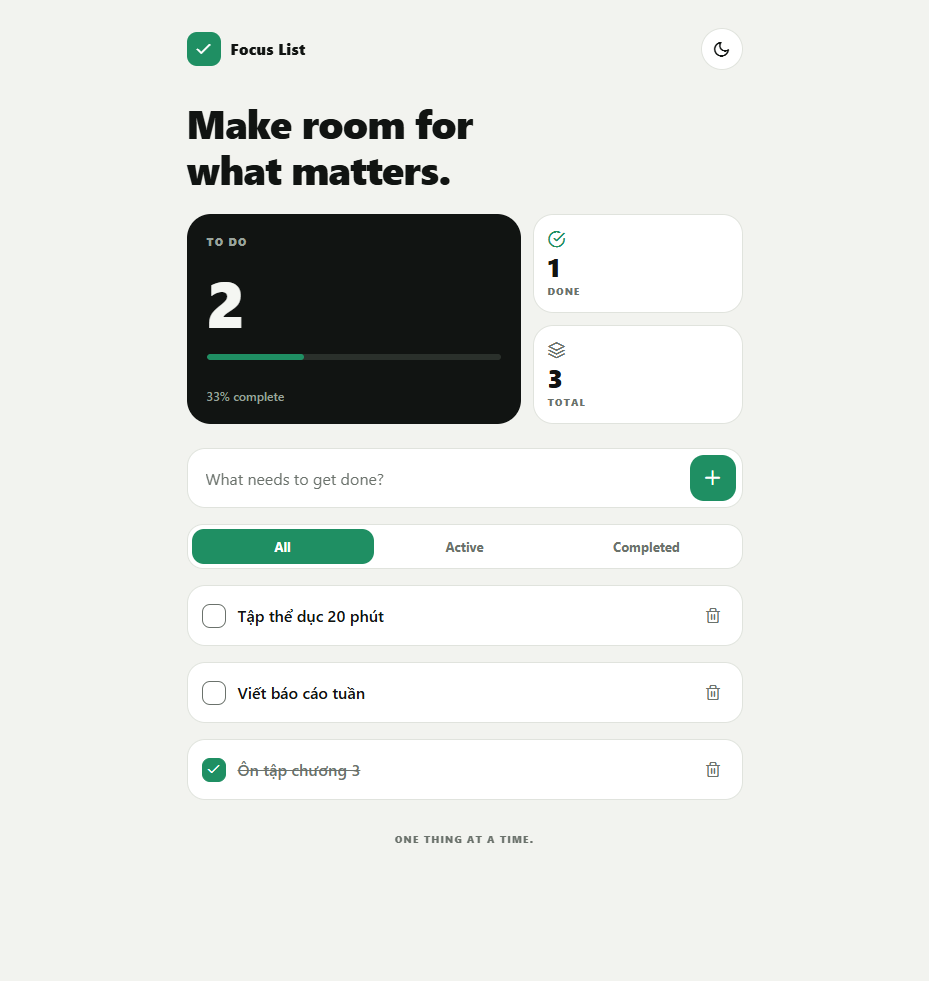
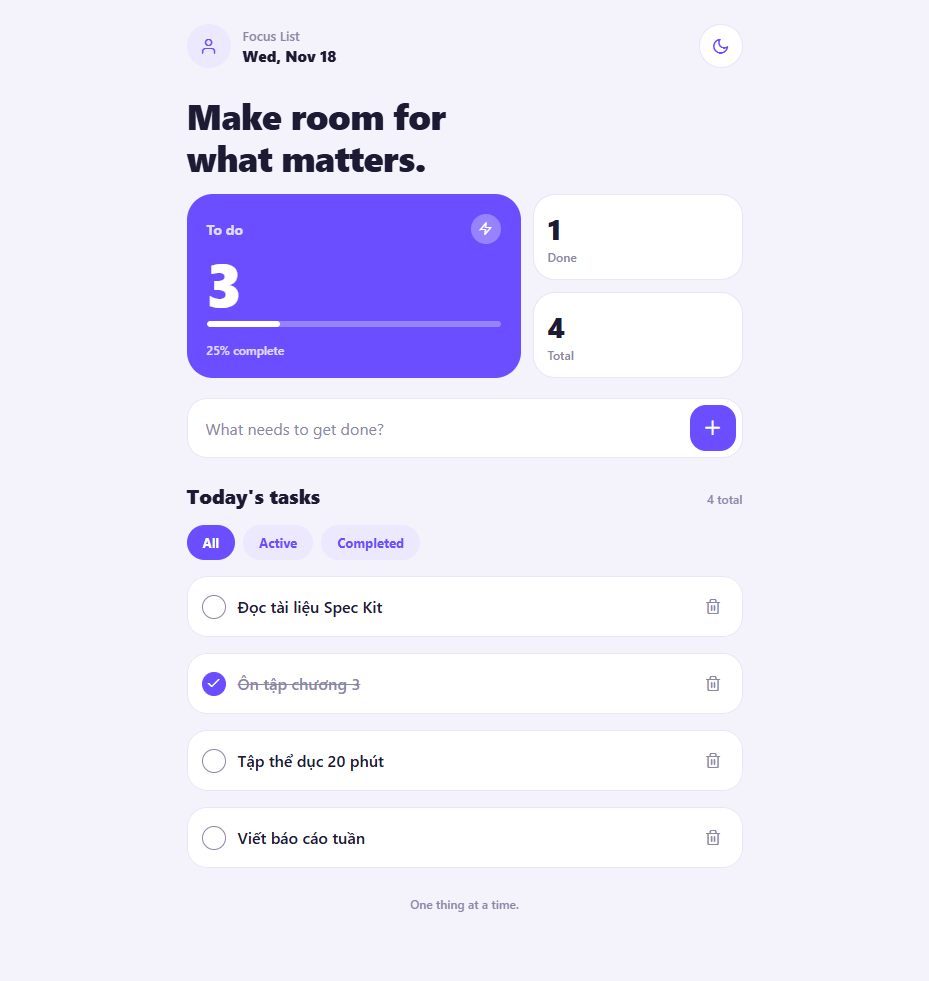
Add swipe gestures and Figma-inspired light UI
Tasks can be swiped right to complete or left to delete. Refresh screenshots.

diff --git a/App.js b/App.js
@@ -1,5 +1,5 @@
 import React, { useEffect, useRef, useState } from 'react';
-import { ActivityIndicator, KeyboardAvoidingView, Platform, Pressable, SafeAreaView, ScrollView, StyleSheet, Text, TextInput, View } from 'react-native';
+import { ActivityIndicator, Animated, KeyboardAvoidingView, PanResponder, Platform, Pressable, SafeAreaView, ScrollView, StyleSheet, Text, TextInput, View } from 'react-native';
 import { StatusBar } from 'expo-status-bar';
 import AsyncStorage from '@react-native-async-storage/async-storage';
 import { Feather } from '@expo/vector-icons';
@@ -10,8 +10,8 @@ const THEME_KEY = '@focus-list/theme-v1';
 const FILTERS = ['all', 'active', 'completed'];
 
 const PALETTE = {
-  dark: { bg: '#0b0d0c', card: '#161a17', border: '#262c27', text: '#f4f6f2', muted: '#8d958f', accent: '#7ee8b8', accentText: '#0b0d0c', hero: '#1d231e', heroTrack: '#2e3830', heroText: '#f4f6f2', heroMuted: '#9aa59e', danger: '#ff9a8a' },
-  light: { bg: '#f2f3ef', card: '#ffffff', border: '#e0e3dd', text: '#111412', muted: '#6b726c', accent: '#1f8f63', accentText: '#ffffff', hero: '#111412', heroTrack: '#2a302b', heroText: '#f4f6f2', heroMuted: '#9aa39c', danger: '#b3261e' },
+  light: { bg: '#f4f2fb', card: '#ffffff', border: '#e8e5f5', text: '#1d1a33', muted: '#8a86a6', accent: '#6b4eff', accentText: '#ffffff', chip: '#ece9ff', hero: '#6b4eff', heroTrack: 'rgba(255,255,255,0.3)', heroText: '#ffffff', heroMuted: '#e4dcff', danger: '#c62828' },
+  dark: { bg: '#14131f', card: '#1f1d2e', border: '#2d2a42', text: '#f3f2fb', muted: '#9a97b3', accent: '#8b72ff', accentText: '#ffffff', chip: '#2b2850', hero: '#2b2658', heroTrack: '#413c7d', heroText: '#ffffff', heroMuted: '#c9c3ff', danger: '#ff9a8a' },
 };
 
 export default function App() {
@@ -69,13 +69,14 @@ export default function App() {
     });
   }, [tasks, loading, storageError]);
 
-  // Dark is the default look for the presentation; the saved choice overrides it.
-  const isDark = (themePreference ?? 'dark') === 'dark';
+  // Light matches the reference design by default; a saved choice overrides it.
+  const isDark = (themePreference ?? 'light') === 'dark';
   const t = isDark ? PALETTE.dark : PALETTE.light;
   const activeCount = tasks.filter((task) => !task.completed).length;
   const doneCount = tasks.length - activeCount;
   const progress = tasks.length === 0 ? 0 : Math.round((doneCount / tasks.length) * 100);
   const visibleTasks = filterTasks(tasks, filter);
+  const todayLabel = new Date().toLocaleDateString('en-US', { weekday: 'short', month: 'short', day: 'numeric' });
 
   function toggleTheme() {
     const nextTheme = isDark ? 'light' : 'dark';
@@ -100,10 +101,13 @@ export default function App() {
       <KeyboardAvoidingView style={styles.flex} behavior={Platform.OS === 'ios' ? 'padding' : undefined}>
         <ScrollView contentContainerStyle={styles.page} keyboardShouldPersistTaps="handled">
           <View style={styles.topline}>
-            <View style={[styles.brandIcon, { backgroundColor: t.accent }]}><Feather name="check" size={18} color={t.accentText} /></View>
-            <Text style={[styles.brand, { color: t.text }]}>Focus List</Text>
+            <View style={[styles.avatar, { backgroundColor: t.chip }]}><Feather name="user" size={18} color={t.accent} /></View>
+            <View style={styles.greeting}>
+              <Text style={[styles.hello, { color: t.muted }]}>Focus List</Text>
+              <Text style={[styles.today, { color: t.text }]}>{todayLabel}</Text>
+            </View>
             <Pressable accessibilityRole="switch" accessibilityLabel="Dark mode" accessibilityState={{ checked: isDark, disabled: !themeReady }} aria-checked={isDark} onPress={toggleTheme} disabled={!themeReady} style={[styles.themeButton, { backgroundColor: t.card, borderColor: t.border }]}>
-              <Feather name={isDark ? 'sun' : 'moon'} size={18} color={t.text} />
+              <Feather name={isDark ? 'sun' : 'moon'} size={18} color={t.accent} />
             </Pressable>
           </View>
 
@@ -111,23 +115,24 @@ export default function App() {
 
           <View style={styles.bento}>
             <View style={[styles.heroCard, { backgroundColor: t.hero }]}>
-              <Text style={[styles.heroLabel, { color: t.heroMuted }]}>TO DO</Text>
+              <View style={styles.heroTop}>
+                <Text style={[styles.heroLabel, { color: t.heroMuted }]}>To do</Text>
+                <View style={[styles.heroBadge, { backgroundColor: t.heroTrack }]}><Feather name="zap" size={14} color={t.heroText} /></View>
+              </View>
               <Text style={[styles.heroNumber, { color: t.heroText }]}>{activeCount}</Text>
               <View style={[styles.track, { backgroundColor: t.heroTrack }]}>
-                <View style={[styles.fill, { width: `${progress}%`, backgroundColor: t.accent }]} />
+                <View style={[styles.fill, { width: `${progress}%`, backgroundColor: t.heroText }]} />
               </View>
               <Text style={[styles.heroCaption, { color: t.heroMuted }]}>{progress}% complete</Text>
             </View>
             <View style={styles.sideColumn}>
               <View style={[styles.smallCard, { backgroundColor: t.card, borderColor: t.border }]}>
-                <Feather name="check-circle" size={18} color={t.accent} />
                 <Text style={[styles.smallNumber, { color: t.text }]}>{doneCount}</Text>
-                <Text style={[styles.smallLabel, { color: t.muted }]}>DONE</Text>
+                <Text style={[styles.smallLabel, { color: t.muted }]}>Done</Text>
               </View>
               <View style={[styles.smallCard, { backgroundColor: t.card, borderColor: t.border }]}>
-                <Feather name="layers" size={18} color={t.muted} />
                 <Text style={[styles.smallNumber, { color: t.text }]}>{tasks.length}</Text>
-                <Text style={[styles.smallLabel, { color: t.muted }]}>TOTAL</Text>
+                <Text style={[styles.smallLabel, { color: t.muted }]}>Total</Text>
               </View>
             </View>
           </View>
@@ -137,12 +142,16 @@ export default function App() {
             <Pressable accessibilityRole="button" accessibilityLabel="Add task" onPress={handleAdd} style={[styles.addButton, { backgroundColor: t.accent }]}><Feather name="plus" size={22} color={t.accentText} /></Pressable>
           </View>
 
-          <View style={[styles.segments, { backgroundColor: t.card, borderColor: t.border }]}>
+          <View style={styles.sectionHeading}>
+            <Text style={[styles.sectionTitle, { color: t.text }]}>Today's tasks</Text>
+            <Text style={[styles.sectionCount, { color: t.muted }]}>{tasks.length} total</Text>
+          </View>
+          <View style={styles.filters}>
             {FILTERS.map((item) => {
               const selected = filter === item;
               return (
-                <Pressable key={item} accessibilityRole="button" accessibilityState={{ selected }} onPress={() => setFilter(item)} style={[styles.segment, selected && { backgroundColor: t.accent }]}>
-                  <Text style={[styles.segmentText, { color: selected ? t.accentText : t.muted }]}>{item[0].toUpperCase() + item.slice(1)}</Text>
+                <Pressable key={item} accessibilityRole="button" accessibilityState={{ selected }} onPress={() => setFilter(item)} style={[styles.filter, { backgroundColor: selected ? t.accent : t.chip }]}>
+                  <Text style={[styles.filterText, { color: selected ? t.accentText : t.accent }]}>{item[0].toUpperCase() + item.slice(1)}</Text>
                 </Pressable>
               );
             })}
@@ -153,64 +162,125 @@ export default function App() {
 
           {loading ? <ActivityIndicator color={t.accent} style={styles.empty} /> : visibleTasks.length === 0 ? (
             <View style={[styles.emptyCard, { backgroundColor: t.card, borderColor: t.border }]}>
-              <Feather name="coffee" size={26} color={t.accent} />
+              <View style={[styles.emptyIcon, { backgroundColor: t.chip }]}><Feather name="coffee" size={22} color={t.accent} /></View>
               <Text style={[styles.emptyTitle, { color: t.text }]}>{tasks.length === 0 ? 'A fresh start.' : 'Nothing here right now.'}</Text>
               <Text style={[styles.emptyText, { color: t.muted }]}>{tasks.length === 0 ? 'Add a task and take it one step at a time.' : 'Try another filter to see your tasks.'}</Text>
             </View>
           ) : visibleTasks.map((task) => (
-            <View key={task.id} style={[styles.taskCard, { backgroundColor: t.card, borderColor: t.border }]}>
-              <Pressable accessibilityRole="checkbox" accessibilityState={{ checked: task.completed }} accessibilityLabel={`${task.completed ? 'Mark active' : 'Complete'}: ${task.title}`} onPress={() => setTasks((current) => toggleTask(current, task.id))} style={[styles.checkbox, { borderColor: task.completed ? t.accent : t.muted, backgroundColor: task.completed ? t.accent : 'transparent' }]}>
-                {task.completed && <Feather name="check" size={15} color={t.accentText} />}
-              </Pressable>
-              <Text style={[styles.taskTitle, { color: task.completed ? t.muted : t.text }, task.completed && styles.taskCompleted]}>{task.title}</Text>
-              <Pressable accessibilityRole="button" accessibilityLabel={`Delete: ${task.title}`} onPress={() => setTasks((current) => deleteTask(current, task.id))} hitSlop={8} style={styles.deleteButton}>
-                <Feather name="trash-2" size={17} color={t.muted} />
-              </Pressable>
-            </View>
+            <SwipeableTaskRow
+              key={task.id}
+              task={task}
+              t={t}
+              onToggle={() => setTasks((current) => toggleTask(current, task.id))}
+              onDelete={() => setTasks((current) => deleteTask(current, task.id))}
+            />
           ))}
 
-          <Text style={[styles.footer, { color: t.muted }]}>ONE THING AT A TIME.</Text>
+          <Text style={[styles.footer, { color: t.muted }]}>One thing at a time.</Text>
         </ScrollView>
       </KeyboardAvoidingView>
     </SafeAreaView>
   );
 }
 
+const SWIPE_THRESHOLD = 90;
+
+function SwipeableTaskRow({ task, t, onToggle, onDelete }) {
+  const translateX = useRef(new Animated.Value(0)).current;
+  const handlers = useRef({ onToggle, onDelete });
+  handlers.current = { onToggle, onDelete };
+  const useNativeDriver = Platform.OS !== 'web';
+
+  const panResponder = useRef(PanResponder.create({
+    onStartShouldSetPanResponder: () => true,
+    onMoveShouldSetPanResponder: (_, g) => Math.abs(g.dx) > 10 && Math.abs(g.dx) > Math.abs(g.dy) * 2,
+    onPanResponderMove: (_, g) => translateX.setValue(g.dx),
+    onPanResponderRelease: (_, g) => {
+      if (g.dx <= -SWIPE_THRESHOLD) {
+        Animated.timing(translateX, { toValue: -400, duration: 160, useNativeDriver }).start(() => handlers.current.onDelete());
+        return;
+      }
+      if (g.dx >= SWIPE_THRESHOLD) handlers.current.onToggle();
+      Animated.spring(translateX, { toValue: 0, useNativeDriver }).start();
+    },
+    onPanResponderTerminationRequest: () => false,
+    onPanResponderTerminate: () => Animated.spring(translateX, { toValue: 0, useNativeDriver }).start(),
+  })).current;
+
+  const completeOpacity = translateX.interpolate({ inputRange: [0, 40], outputRange: [0, 1], extrapolate: 'clamp' });
+  const deleteOpacity = translateX.interpolate({ inputRange: [-40, 0], outputRange: [1, 0], extrapolate: 'clamp' });
+
+  return (
+    <View style={styles.swipeWrap}>
+      <Animated.View style={[styles.swipeLayer, styles.swipeComplete, { backgroundColor: t.accent, opacity: completeOpacity }]}>
+        <Feather name="check" size={18} color={t.accentText} />
+        <Text style={[styles.swipeText, { color: t.accentText }]}>{task.completed ? 'Mark active' : 'Complete'}</Text>
+      </Animated.View>
+      <Animated.View style={[styles.swipeLayer, styles.swipeDelete, { backgroundColor: t.danger, opacity: deleteOpacity }]}>
+        <Text style={[styles.swipeText, { color: t.accentText }]}>Delete</Text>
+        <Feather name="trash-2" size={18} color={t.accentText} />
+      </Animated.View>
+      <Animated.View {...panResponder.panHandlers} style={[styles.taskCard, { backgroundColor: t.card, borderColor: t.border, transform: [{ translateX }] }]}>
+        <Pressable accessibilityRole="checkbox" accessibilityState={{ checked: task.completed }} accessibilityLabel={`${task.completed ? 'Mark active' : 'Complete'}: ${task.title}`} onPress={onToggle} style={[styles.checkbox, { borderColor: task.completed ? t.accent : t.muted, backgroundColor: task.completed ? t.accent : 'transparent' }]}>
+          {task.completed && <Feather name="check" size={15} color={t.accentText} />}
+        </Pressable>
+        <Text style={[styles.taskTitle, { color: task.completed ? t.muted : t.text }, task.completed && styles.taskCompleted]}>{task.title}</Text>
+        <Pressable accessibilityRole="button" accessibilityLabel={`Delete: ${task.title}`} onPress={onDelete} hitSlop={8} style={styles.deleteButton}>
+          <Feather name="trash-2" size={17} color={t.muted} />
+        </Pressable>
+      </Animated.View>
+    </View>
+  );
+}
+
 const styles = StyleSheet.create({
   safeArea: { flex: 1 },
   flex: { flex: 1 },
-  page: { width: '100%', maxWidth: 600, alignSelf: 'center', paddingHorizontal: 22, paddingTop: 28, paddingBottom: 48, gap: 16 },
-  topline: { flexDirection: 'row', alignItems: 'center', gap: 10 },
-  brandIcon: { width: 34, height: 34, borderRadius: 10, alignItems: 'center', justifyContent: 'center' },
-  brand: { fontSize: 15, fontWeight: '800', letterSpacing: 0.3 },
-  themeButton: { marginLeft: 'auto', width: 42, height: 42, borderRadius: 21, borderWidth: 1, alignItems: 'center', justifyContent: 'center' },
-  title: { fontSize: 40, fontWeight: '900', lineHeight: 46, letterSpacing: -0.8, marginTop: 14, marginBottom: 6 },
+  page: { width: '100%', maxWidth: 600, alignSelf: 'center', paddingHorizontal: 22, paddingTop: 24, paddingBottom: 48, gap: 16 },
+  topline: { flexDirection: 'row', alignItems: 'center', gap: 12 },
+  avatar: { width: 44, height: 44, borderRadius: 22, alignItems: 'center', justifyContent: 'center' },
+  greeting: { flex: 1 },
+  hello: { fontSize: 13, fontWeight: '600' },
+  today: { fontSize: 15, fontWeight: '800', marginTop: 2 },
+  themeButton: { width: 44, height: 44, borderRadius: 22, borderWidth: 1, alignItems: 'center', justifyContent: 'center' },
+  title: { fontSize: 36, fontWeight: '900', lineHeight: 42, letterSpacing: -0.6, marginTop: 10 },
   bento: { flexDirection: 'row', gap: 12 },
-  heroCard: { flex: 1.4, borderRadius: 24, padding: 20, justifyContent: 'space-between', minHeight: 176 },
-  heroLabel: { fontSize: 11, fontWeight: '800', letterSpacing: 1.2 },
-  heroNumber: { fontSize: 64, fontWeight: '900', lineHeight: 70, letterSpacing: -2 },
+  heroCard: { flex: 1.4, borderRadius: 26, padding: 20, justifyContent: 'space-between', minHeight: 184 },
+  heroTop: { flexDirection: 'row', alignItems: 'center', justifyContent: 'space-between' },
+  heroLabel: { fontSize: 14, fontWeight: '700' },
+  heroBadge: { width: 30, height: 30, borderRadius: 15, alignItems: 'center', justifyContent: 'center' },
+  heroNumber: { fontSize: 60, fontWeight: '900', lineHeight: 66, letterSpacing: -2 },
   track: { height: 6, borderRadius: 3, overflow: 'hidden' },
   fill: { height: 6, borderRadius: 3 },
   heroCaption: { fontSize: 12, fontWeight: '600', marginTop: 10 },
   sideColumn: { flex: 1, gap: 12 },
-  smallCard: { flex: 1, borderRadius: 20, borderWidth: 1, padding: 14, justifyContent: 'space-between' },
-  smallNumber: { fontSize: 26, fontWeight: '900' },
-  smallLabel: { fontSize: 10, fontWeight: '800', letterSpacing: 1 },
-  inputCard: { flexDirection: 'row', alignItems: 'center', borderWidth: 1, borderRadius: 18, padding: 6, marginTop: 8 },
+  smallCard: { flex: 1, borderRadius: 22, borderWidth: 1, padding: 14, justifyContent: 'center', gap: 2 },
+  smallNumber: { fontSize: 28, fontWeight: '900' },
+  smallLabel: { fontSize: 12, fontWeight: '600' },
+  inputCard: { flexDirection: 'row', alignItems: 'center', borderWidth: 1, borderRadius: 20, padding: 6, marginTop: 4 },
   input: { flex: 1, paddingHorizontal: 12, paddingVertical: 12, fontSize: 16 },
-  addButton: { width: 46, height: 46, borderRadius: 14, alignItems: 'center', justifyContent: 'center' },
-  segments: { flexDirection: 'row', borderWidth: 1, borderRadius: 16, padding: 4 },
-  segment: { flex: 1, paddingVertical: 9, borderRadius: 12, alignItems: 'center' },
-  segmentText: { fontSize: 13, fontWeight: '700' },
-  taskCard: { flexDirection: 'row', alignItems: 'center', borderWidth: 1, borderRadius: 18, paddingVertical: 14, paddingHorizontal: 14, gap: 12 },
-  checkbox: { width: 24, height: 24, borderRadius: 8, borderWidth: 1.5, alignItems: 'center', justifyContent: 'center' },
+  addButton: { width: 46, height: 46, borderRadius: 16, alignItems: 'center', justifyContent: 'center' },
+  sectionHeading: { marginTop: 8, flexDirection: 'row', alignItems: 'baseline', justifyContent: 'space-between' },
+  sectionTitle: { fontSize: 20, fontWeight: '800' },
+  sectionCount: { fontSize: 12, fontWeight: '600' },
+  filters: { flexDirection: 'row', gap: 8 },
+  filter: { paddingVertical: 9, paddingHorizontal: 16, borderRadius: 999 },
+  filterText: { fontSize: 13, fontWeight: '700' },
+  taskCard: { flexDirection: 'row', alignItems: 'center', borderWidth: 1, borderRadius: 20, paddingVertical: 14, paddingHorizontal: 14, gap: 12 },
+  checkbox: { width: 24, height: 24, borderRadius: 12, borderWidth: 1.5, alignItems: 'center', justifyContent: 'center' },
   taskTitle: { flex: 1, fontSize: 16, fontWeight: '500' },
   taskCompleted: { textDecorationLine: 'line-through' },
+  swipeWrap: { borderRadius: 20, overflow: 'hidden' },
+  swipeLayer: { ...StyleSheet.absoluteFillObject, flexDirection: 'row', alignItems: 'center', paddingHorizontal: 22, gap: 8, borderRadius: 20 },
+  swipeComplete: { justifyContent: 'flex-start' },
+  swipeDelete: { justifyContent: 'flex-end' },
+  swipeText: { fontSize: 14, fontWeight: '800' },
   deleteButton: { padding: 6 },
-  emptyCard: { alignItems: 'center', borderWidth: 1, borderRadius: 18, paddingVertical: 32, paddingHorizontal: 20, gap: 6 },
-  emptyTitle: { fontSize: 16, fontWeight: '800', marginTop: 6 },
+  emptyCard: { alignItems: 'center', borderWidth: 1, borderRadius: 20, paddingVertical: 30, paddingHorizontal: 20, gap: 6 },
+  emptyIcon: { width: 52, height: 52, borderRadius: 26, alignItems: 'center', justifyContent: 'center', marginBottom: 6 },
+  emptyTitle: { fontSize: 16, fontWeight: '800' },
   emptyText: { fontSize: 13, textAlign: 'center' },
   empty: { paddingVertical: 36 },
   error: { fontSize: 13, fontWeight: '600' },
-  footer: { fontSize: 10, fontWeight: '800', letterSpacing: 1.2, textAlign: 'center', marginTop: 16 },
+  footer: { fontSize: 12, fontWeight: '600', textAlign: 'center', marginTop: 12 },
 });

diff --git a/README.md b/README.md
@@ -37,7 +37,7 @@ npm test
 npm run web
 ```
 
-Open the URL printed by Expo in your browser. Add, complete, filter, and delete a few tasks, then reload the page. Tasks are stored in the browser on this device only, so they are not shared between browsers or devices. To reset, delete tasks in the app or clear this site's browser storage.
+Open the URL printed by Expo in your browser. Add, complete, filter, and delete a few tasks, then reload the page. On a touch screen you can also swipe a task right to complete it or left to delete it; the checkbox and trash buttons work too. Tasks are stored in the browser on this device only, so they are not shared between browsers or devices. To reset, delete tasks in the app or clear this site's browser storage.
 
 `npm test` runs `src/tasks.test.js`, which covers the pure list operations in `src/tasks.js`. It should report 2 passing tests.
 
